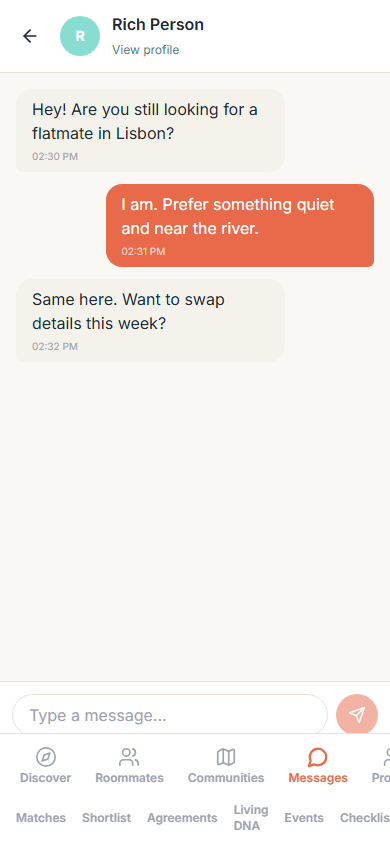
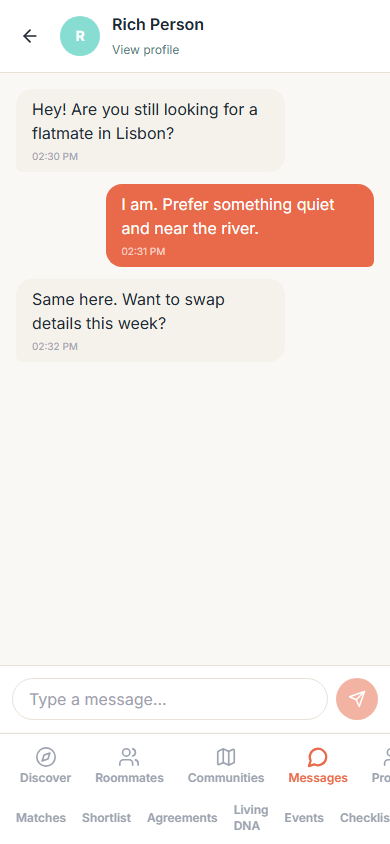
fix(ui): agreement status badge, nav clearance, and Chat/Matches regression checks
Agreements. The one thing that tells you whether an agreement needs attention
rendered as the raw column value in grey body text ("pending"), sitting beside
a partner name where it read as noise. It is now a Badge with a human label
(Awaiting signatures, Signed, Not started) and a tone that matches the state,
falling back to a readable label for any status not yet known. The row also
wraps now: at 390px the badge wrapped onto two lines and squeezed the partner
name down to "Rich P...". A missing partner name no longer renders an empty
heading.

The "?" avatar in the earlier captures was the audit mock's fault, not the
app's. The component reads a flat partner_name/partner_image/partner_id, which
is what the API returns; the mock nested the partner under other_user. Mock
corrected.

Layout and Chat. Layout reserved pb-24 (96px) for the fixed bottom navigation,
but the nav measures ~111px at 390px where it wraps to two rows, so the last
15px of every page sat underneath it. Layout now reserves pb-28, and ChatPage
mirrors that as h-[calc(100dvh-7rem)] so the composer finishes above the nav
instead of being clipped by it. The earlier 6rem value was measured guesswork;
this one is pinned by a test that compares the composer's and send button's
bounding boxes against the nav's.

scripts/qa-chat-matches-ui.mjs is new, 5 Playwright checks with mocked
responses: the composer clears the nav at 390px and at 1440px, the send button
[…]

Changed region(s): [[0.0615, 0.8009, 0.7692, 0.8626], [0.8615, 0.8009, 0.9846, 0.8934]]

diff --git a/frontend-react/src/pages/AgreementsPage.jsx b/frontend-react/src/pages/AgreementsPage.jsx
@@ -1,17 +1,34 @@
 import { apiFetch } from '../lib/api'
 import { useAsync } from '../lib/useAsync'
 import Layout from '../components/Layout'
-import { Card, ButtonLink, Spinner, EmptyState, ErrorState } from '../components/UI'
+import { Card, Badge, ButtonLink, Spinner, EmptyState, ErrorState } from '../components/UI'
 import UserAvatar from '../components/UserAvatar'
 import { Link } from 'react-router-dom'
 import { FileText } from 'lucide-react'
 
 const excerpt = (content, len = 140) => {
+
   if (!content) return 'No content yet.'
   const line = content.split('\n').find(l => l.trim() && !l.startsWith('ROOMMATE AGREEMENT')) || ''
   const text = line.trim()
   return text.length > len ? `${text.slice(0, len)}...` : text
 }
+
+// Agreement status is stored as a bare column value. Showing it raw put
+// "pending" in grey body text beside a name, where it read as noise rather than
+// as the one thing that says whether this agreement needs attention.
+const STATUS_LABEL = {
+  template: 'Not started',
+  draft: 'Draft',
+  pending: 'Awaiting signatures',
+  signed: 'Signed',
+  accepted: 'Accepted',
+};
+const statusLabel = s =>
+  STATUS_LABEL[s] || (s ? String(s).charAt(0).toUpperCase() + String(s).slice(1) : '');
+const statusTone = s =>
+  (s === 'template' || s === 'draft') ? 'muted'
+    : (s === 'signed' || s === 'accepted') ? 'success' : 'amber';
 
 export default function AgreementsPage() {
   const { data, loading, error, retry } = useAsync(
@@ -45,13 +62,19 @@ export default function AgreementsPage() {
               <Card key={a.id} className="p-4 flex items-center gap-4">
                 <UserAvatar src={a.partner_image} name={a.partner_name} size="md" />
                 <div className="flex-1 min-w-0">
-                  <div className="flex items-center gap-2">
-                    <h3 className="font-semibold text-text-primary truncate">
-                      {a.partner_name}
-                    </h3>
-                    <span className="text-xs text-text-muted">
-                      {a.status === 'template' ? 'Not started' : a.status}
-                    </span>
+                  <div className="flex flex-wrap items-center gap-2">
+                    {a.partner_name && (
+                      <h3 className="font-semibold text-text-primary truncate">
+                        {a.partner_name}
+                      </h3>
+                    )}
+                    {/* Status used to render the raw column value as grey body
+                        text ("pending"), so the one thing that tells you whether
+                        anything needs doing had no visual weight at all. A badge
+                        with a human label carries that, and an unrecognised
+                        status still falls through to a readable label rather
+                        than disappearing. */}
+                    <Badge variant={statusTone(a.status)}>{statusLabel(a.status)}</Badge>
                   </div>
                   <p className="text-sm text-text-muted truncate mt-0.5">
                     {excerpt(a.content)}

diff --git a/frontend-react/src/pages/ChatPage.jsx b/frontend-react/src/pages/ChatPage.jsx
@@ -120,11 +120,11 @@ export default function ChatPage() {
 
   return (
     <Layout>
-      {/* Layout reserves pb-24 (6rem) for the fixed bottom nav. Claiming a full
-          100dvh on top of that padding pushed the composer down onto the nav
-          itself, clipping the send button on mobile. Fill the space Layout
-          actually left instead. */}
-      <div className="flex flex-col bg-surface-bg h-[calc(100dvh-6rem)]">
+      {/* Layout reserves pb-28 (7rem) for the fixed bottom nav, which measures
+          ~111px at 390px where it wraps to two rows. Mirroring that here keeps
+          the composer above the nav instead of clipped by it. Claiming a full
+          100dvh pushed the composer straight down onto the nav. */}
+      <div className="flex flex-col bg-surface-bg h-[calc(100dvh-7rem)]">
         <header className="flex items-center gap-3 p-3 border-b border-surface-border bg-surface-card">
           <button
             type="button"

diff --git a/frontend-react/src/components/Layout.jsx b/frontend-react/src/components/Layout.jsx
@@ -3,7 +3,7 @@ import Navbar from './Navbar';
 export default function Layout({ children, className = '' }) {
   return (
     <div className="min-h-screen bg-surface-bg">
-      <div className={`pb-24 ${className}`}>
+      <div className={`pb-28 ${className}`}>
         {children}
       </div>
       <Navbar />
